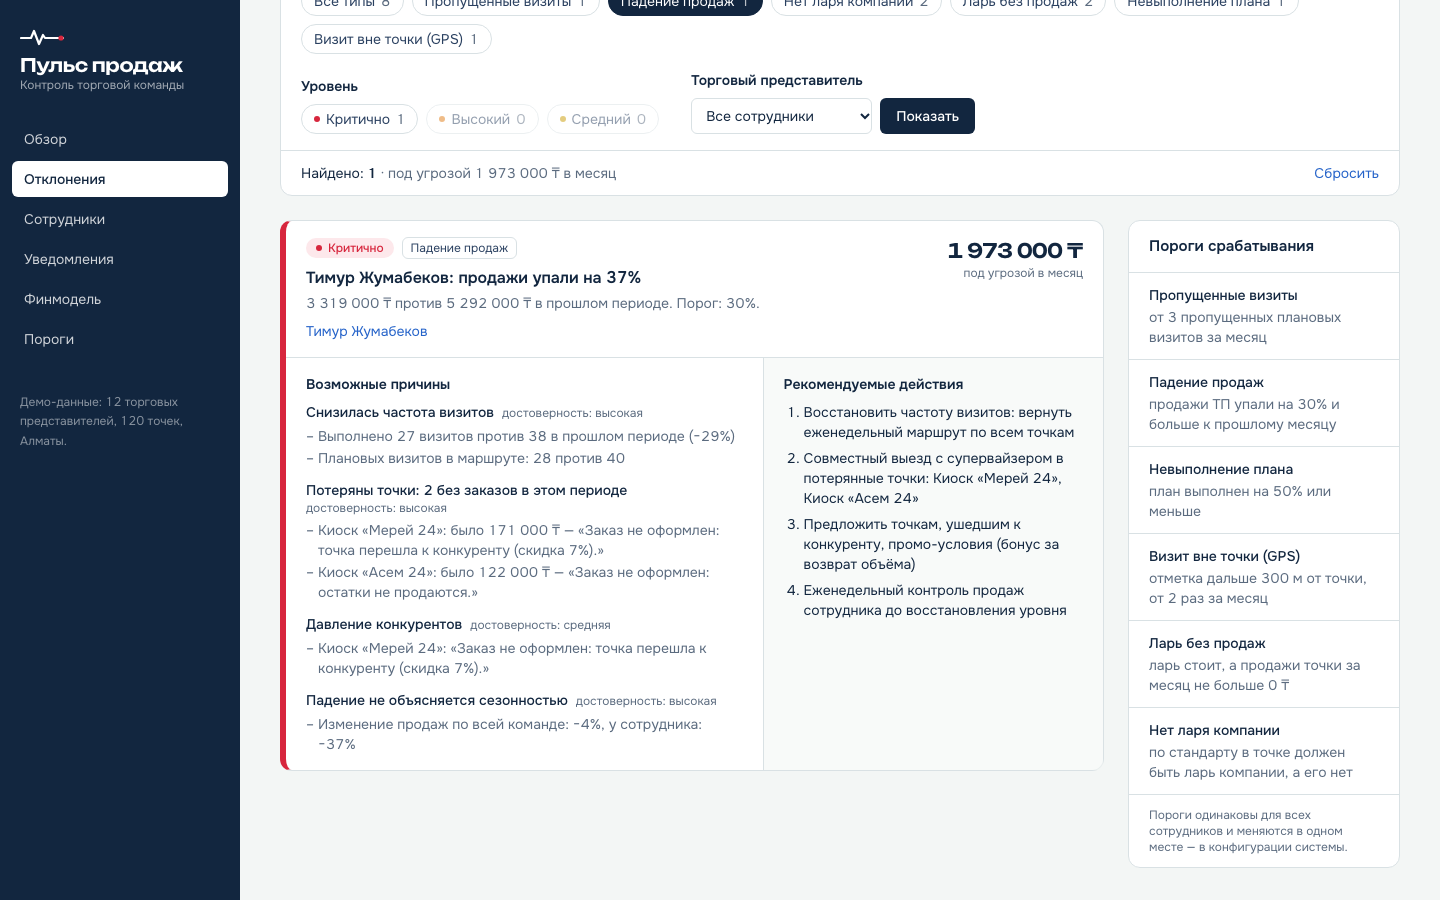
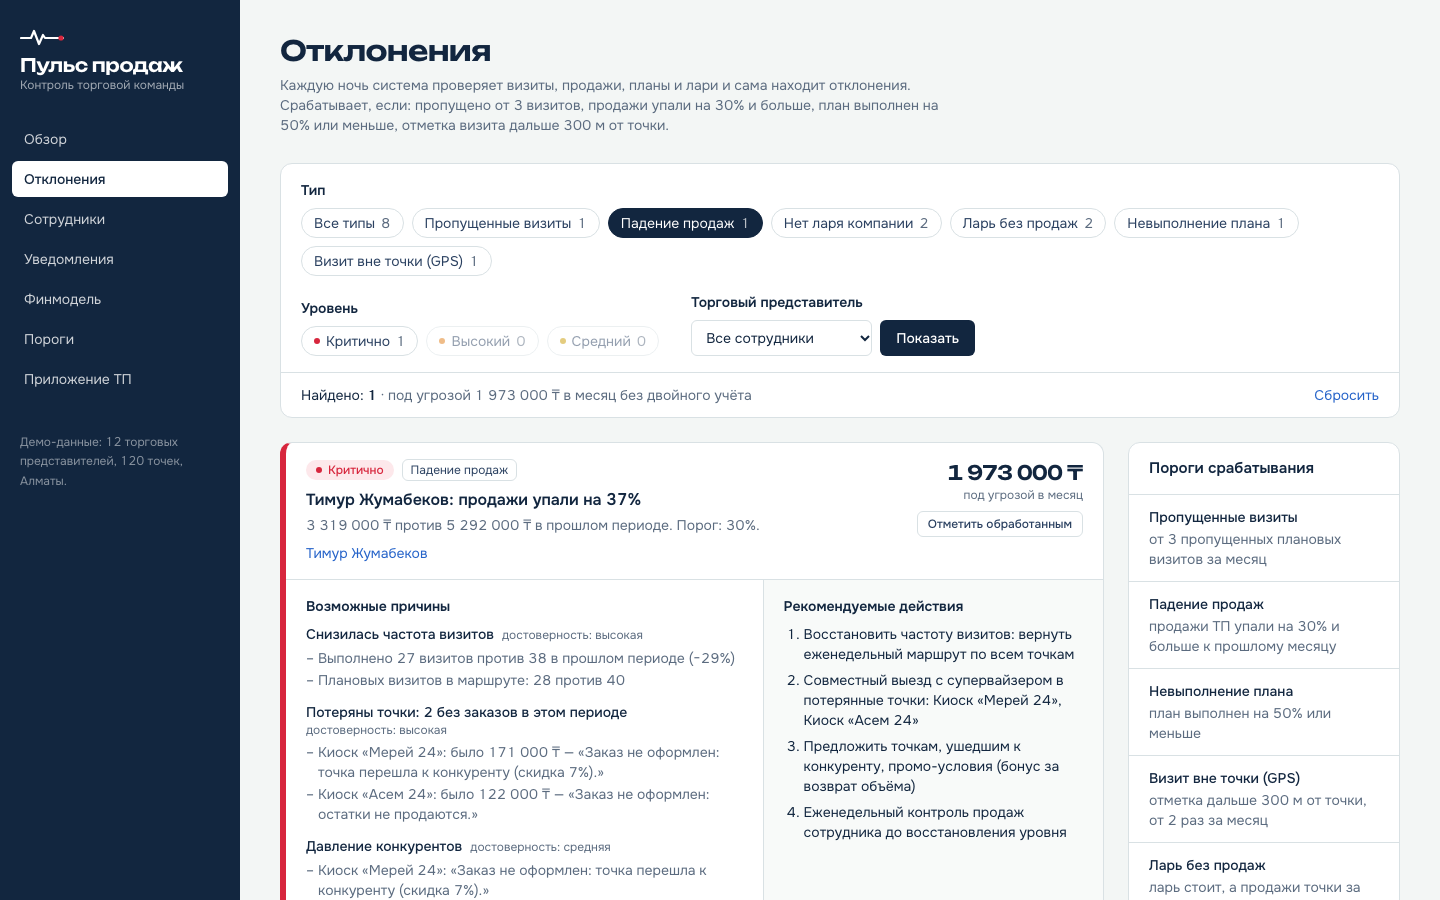
T28: phase 2 final — redeployed, screenshots from prod, HANDOFF, night/DONE

diff --git a/HANDOFF.md b/HANDOFF.md
@@ -4,7 +4,7 @@
 > Read this first after `git pull`. Keep it short and true.
 > Updated after every finished task (by the night agent or by you).
 
-**Last updated:** 2026-11-19 01:45 · by: Claude (lead, night run, phase 2) · branch: `night/2026-11-19`
+**Last updated:** 2026-11-19 05:00 · by: Claude (lead, night run, phase 2) · branch: `night/2026-11-19`
 
 ## Deadline & submission
 **Final deadline: 20.11.2026, 17:00** (late submissions rejected). Case: Business —
@@ -24,9 +24,10 @@ per Hack.IT template, presentation, financial model (.xlsx), video of the produc
 - [ ] Sent to Telegram @hackit_administration before 20.11 17:00
 
 ## Status
-**Phase 2 in progress** (owner added it at 01:35, `night/SPEC.md` «Фаза 2», tasks T21–T28 in
-`night/TASKS.md`). Phase 1 is done and deployed; the app keeps working after every merge.
-The prod deploy still shows phase 1 until T28 redeploys.
+**Night run finished (phase 1 + phase 2) — every acceptance criterion in `night/SPEC.md` verified,
+`night/DONE` created.** Production https://puls-prodazh-nine.vercel.app shows the phase-2 version
+(checked 05:00: `/mobile`, `/finance` breakeven, «Отметить обработанным» survives reload).
+What's left is for humans (video, slides, template, submission) — see "Left to do".
 
 ## Done
 - Next.js 15 app (`src/app/`): обзор `/`, отклонения `/alerts` (фильтры), сотрудники `/reps`,
@@ -46,14 +47,21 @@ The prod deploy still shows phase 1 until T28 redeploys.
   + jury Q&A), `docs/DEMO.md` (video script, ~3 min). `scripts/smoke.sh` — build + route checks.
 - Deployed to Vercel (project `puls-prodazh`). Fresh clone → `npm install && npm run build && npm test` OK.
 
-## In progress (phase 2)
-- Done on the night branch: T22 «Продажи под угрозой» without double counting (3 646 665 ₸/мес lost
-  sales + 2 894 000 ₸ plan gap shown separately), T23 «Отметить обработанным» (localStorage),
-  T25 comparison with the SFA class + jury answers in DOCUMENTATION/PITCH.
-- gemini: T24 `/mobile` rep-app prototype.
-- lead next: T27 DEMO (/mobile step), T28 redeploy + DONE.
-- T21 (codex) merged; T26 done: `/finance` shows revenue basis + breakeven, every number in docs
-  synced with `finance/summary.json`.
+## Phase 2 (done 2026-11-19)
+- Finance realism (codex): sheet «Обоснование выручки» (25 ТП × 100 точек × 200 000 ₸ × 12 = 6 млрд ₸,
+  labelled as team assumptions), sheet «Безубыточность» (1,18% sales uplift pays back within 12 months
+  from start; 4,18% with no freezer/write-off effect; without freezers payback 6,0 мес. → month 12),
+  write-offs valued at cost. Base: 81 600 000 ₸/year, ROI 200,3%, payback 4,0 мес., NPV 75 242 934 ₸.
+- «Продажи под угрозой» without double counting (`src/lib/engine/risk.ts`): 3 646 665 ₸/мес lost sales
+  + 2 894 000 ₸ plan gap shown separately.
+- «Отметить обработанным» / «Вернуть» on every alert card (localStorage), handled alerts in a separate
+  dimmed block, dashboard counters/KPI count open alerts only.
+- `/mobile` rep-app screen prototype (gemini); `/finance` panels «Откуда 6 млрд ₸» and «Безубыточность».
+- Docs: SFA-class comparison + jury answers («чем вы лучше готовых систем?», «откуда 6 млрд?»),
+  DEMO steps for alert handling and `/mobile`, all numbers synced, screenshots retaken from production.
+
+## In progress
+- Nothing.
 
 ## Left to do (humans, before 20.11 17:00)
 1. Make the GitHub repo public (Settings → General → Danger zone → Change visibility).

diff --git a/night/TASKS.md b/night/TASKS.md
@@ -40,7 +40,7 @@ Order = priority. Phase 1 must keep working (tests, smoke, deploy, README).
 - [x] T25 (lead) Comparison with existing SFA/merchandising class + jury answers «чем вы лучше готовых систем?», «откуда 6 млрд выручки?» — files: docs/DOCUMENTATION.md, docs/PITCH.md — accept: sections present, only verifiable claims, no product names
 - [x] T26 (lead) Merge T21: `/finance` shows revenue basis + breakeven from summary.json; all numbers in /finance, DOCUMENTATION.md, PITCH.md, README, HANDOFF match summary.json — files: src/app/finance/*, src/components/finance/*, docs/* — accept: build passes; grep of old numbers (87 600 000, 222,4, 3,7 мес) finds nothing stale
 - [x] T27 (lead) docs/DEMO.md: alert-handling step (+ /mobile step if T24 done) — accept: steps reproducible on deploy
-- [ ] T28 (lead) Final phase 2: `npm test`, `bash scripts/smoke.sh`, `vercel deploy --prod` (project puls-prodazh), verify prod shows new version, README/HANDOFF/PITCH/DEMO current, phase 2 acceptance re-checked, `night/DONE` — accept: all SPEC phase-2 criteria checked
+- [x] T28 (lead) Final phase 2: `npm test`, `bash scripts/smoke.sh`, `vercel deploy --prod` (project puls-prodazh), verify prod shows new version, README/HANDOFF/PITCH/DEMO current, phase 2 acceptance re-checked, `night/DONE` — accept: all SPEC phase-2 criteria checked
 
 ## Notes for T21 (codex) — finance model realism
 Do NOT rename existing sheets/keys; Excel formulas must stay live; keep openpyxl only for building.

diff --git a/night/LOG.md b/night/LOG.md
@@ -167,3 +167,15 @@
 - T27: DEMO.md step 7а (/mobile), alert-handling step already in step 3. Docs: /mobile in prototype list,
   SFA table row «нет мобильного приложения» → «есть только макет экрана», README routes + smoke, test
   count 34 → 43 everywhere. Next: T28 final checks + redeploy + DONE.
+
+## 2026-11-19 04:50 lead
+- Resumed after usage limit (paused 01:50–04:47). Worker branches had no new commits.
+- T28: self-review of phase-2 code (Handled store, risk, finance panels) — no defects found (the code-review
+  skill could not run: usage limit). tsc, eslint, 43 tests, finance verify, smoke (incl. /mobile) pass.
+  vercel deploy --prod → https://puls-prodazh-nine.vercel.app; Playwright on prod: /mobile, /finance
+  breakeven + 81 600 000, handled alert survives reload, KPI 1 673 665 ₸ as in DEMO step 3.
+- Screenshots retaken from production (old ones showed 7 002 665 ₸), added 08-prilozhenie-tp.png.
+- Phase-2 acceptance re-checked line by line: finance sheets + verify ✓; numbers /finance = docs =
+  summary.json ✓; risk KPI no double counting, write-offs at cost ✓; SFA comparison + 2 answers ✓;
+  handled works on deploy after reload, tests green ✓; npm test + smoke green, prod shows new version ✓.
+  Creating night/DONE.

diff --git a/docs/DOCUMENTATION.md b/docs/DOCUMENTATION.md
@@ -359,6 +359,7 @@ if (drop < c.salesDropPct) return [];   // порог 0.3 из config.ts
 | Уведомления руководству | ![Уведомления](screenshots/05-uvedomleniya.png) |
 | Финансовая модель в приложении | ![Финмодель](screenshots/06-finmodel.png) |
 | Настройка порогов | ![Пороги](screenshots/07-porogi.png) |
+| Прототип приложения ТП (`/mobile`) | ![Приложение ТП](screenshots/08-prilozhenie-tp.png) |
 
 ## Заключение
 
